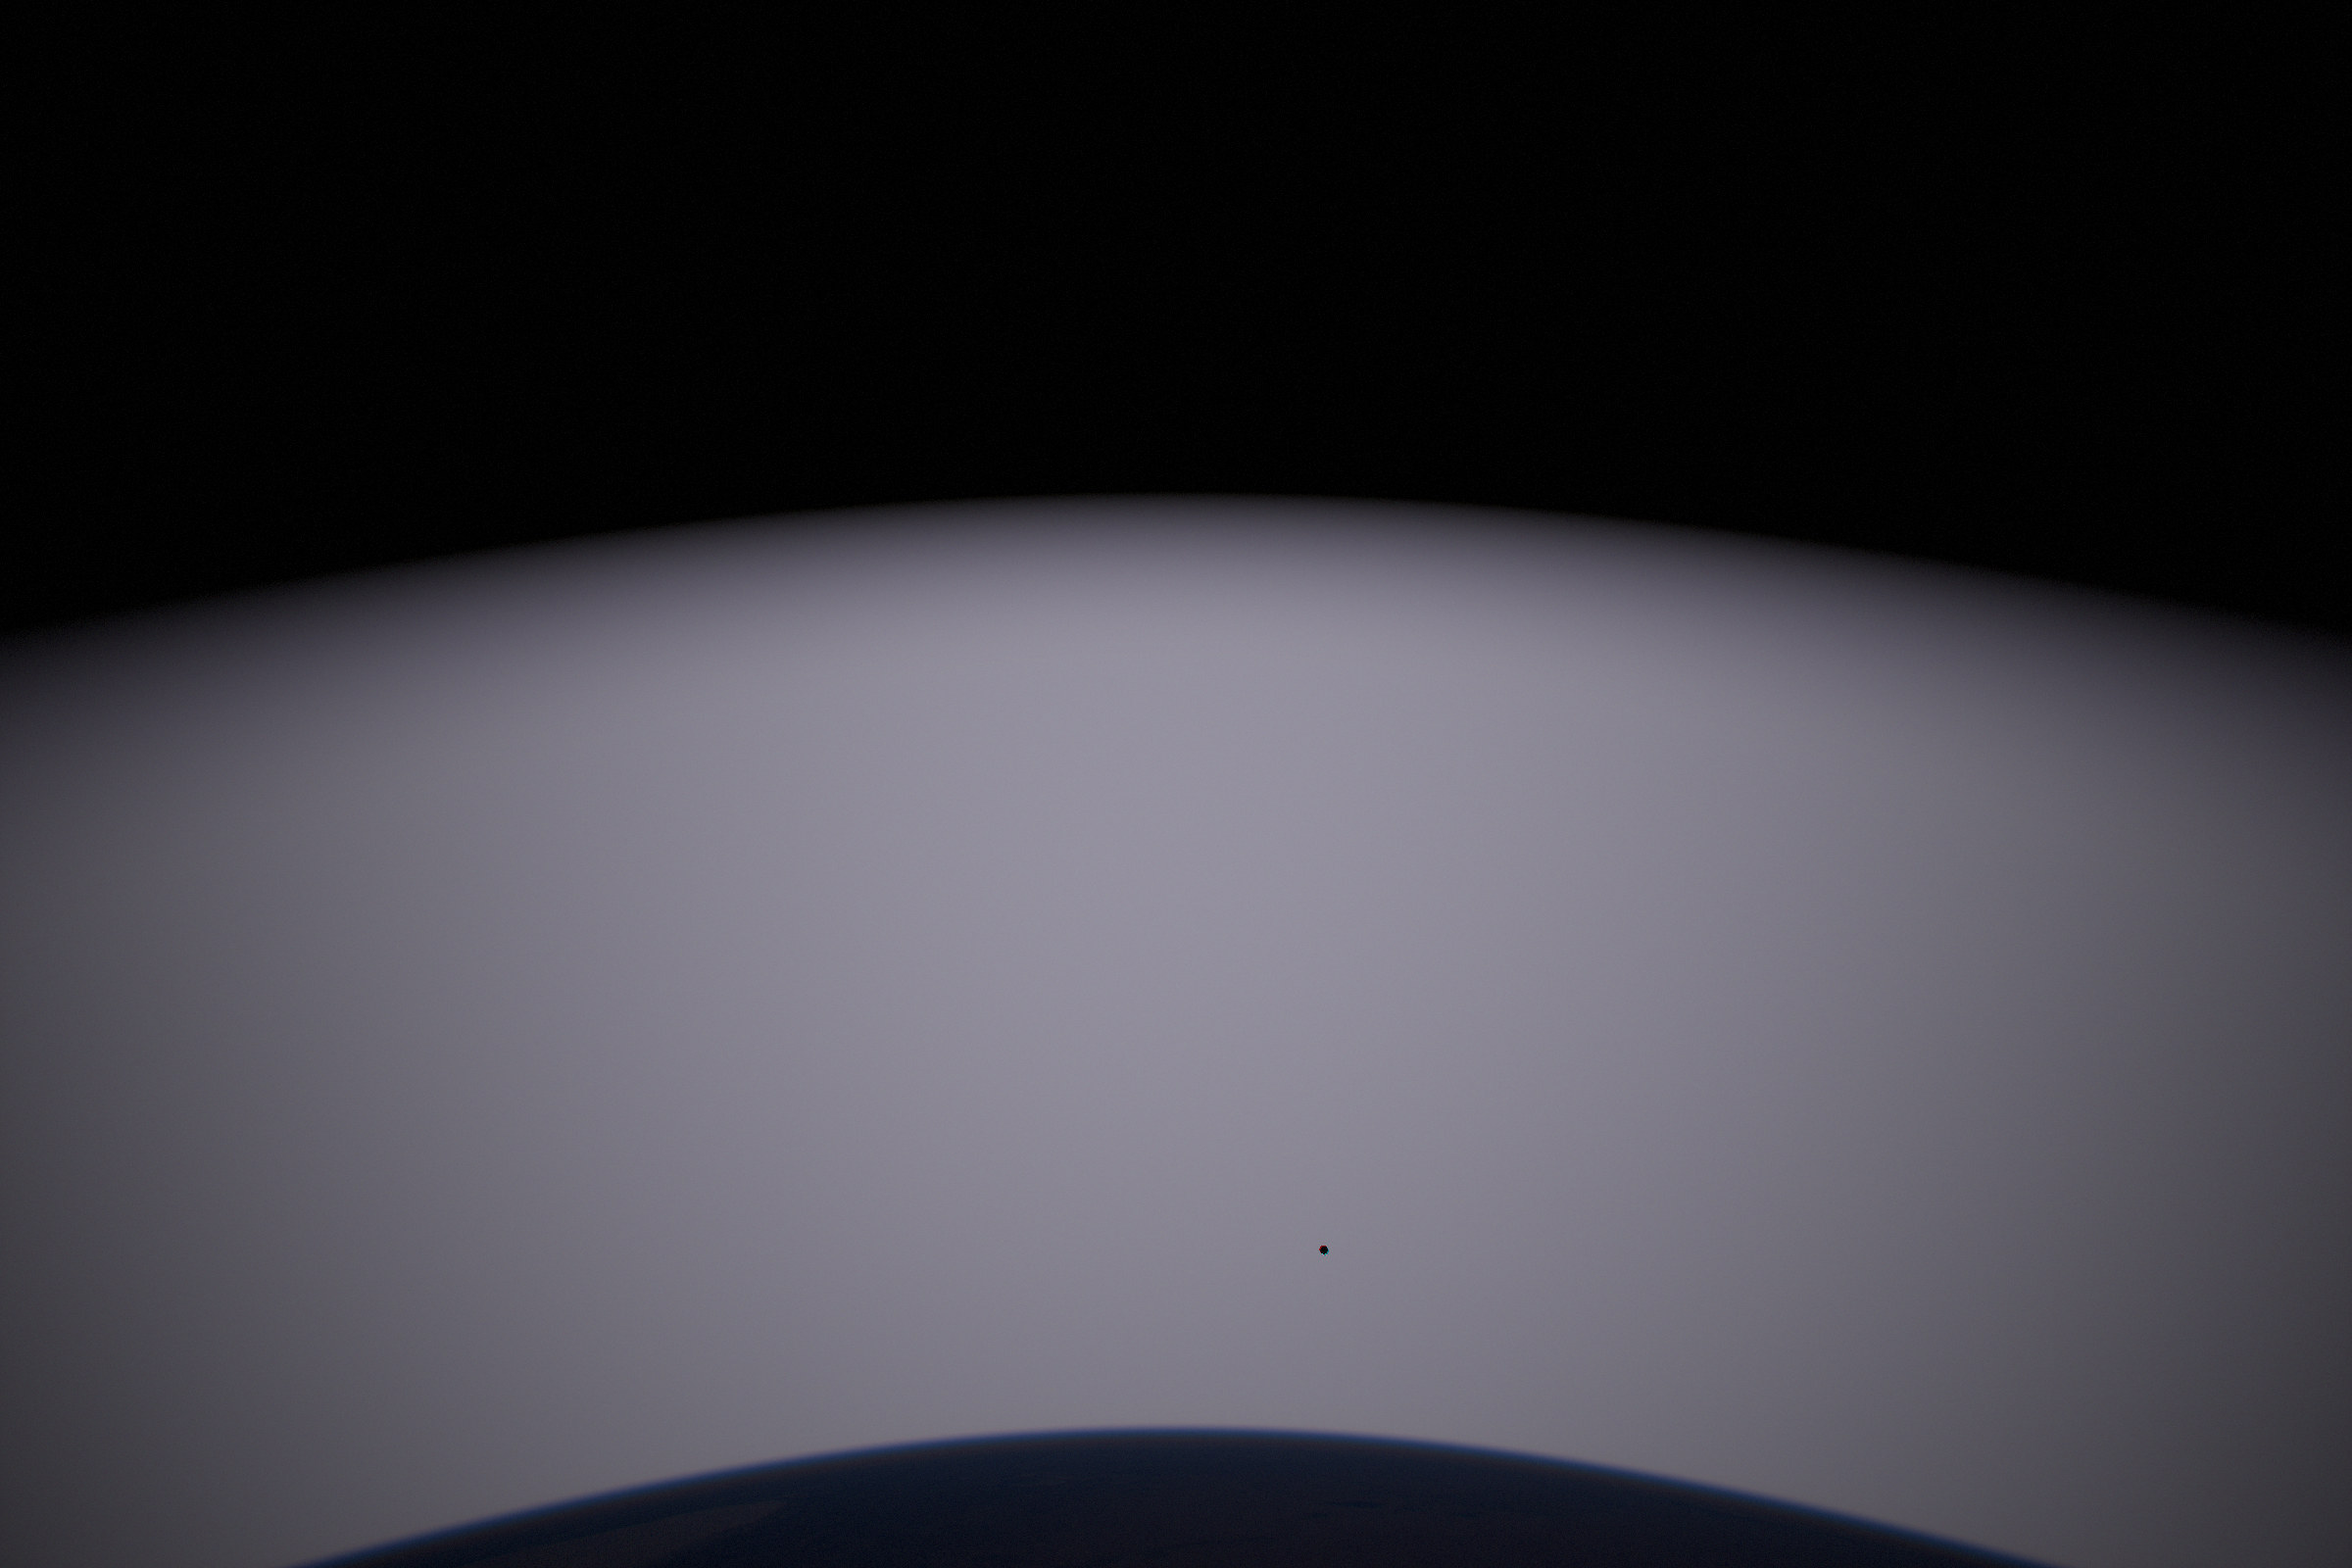
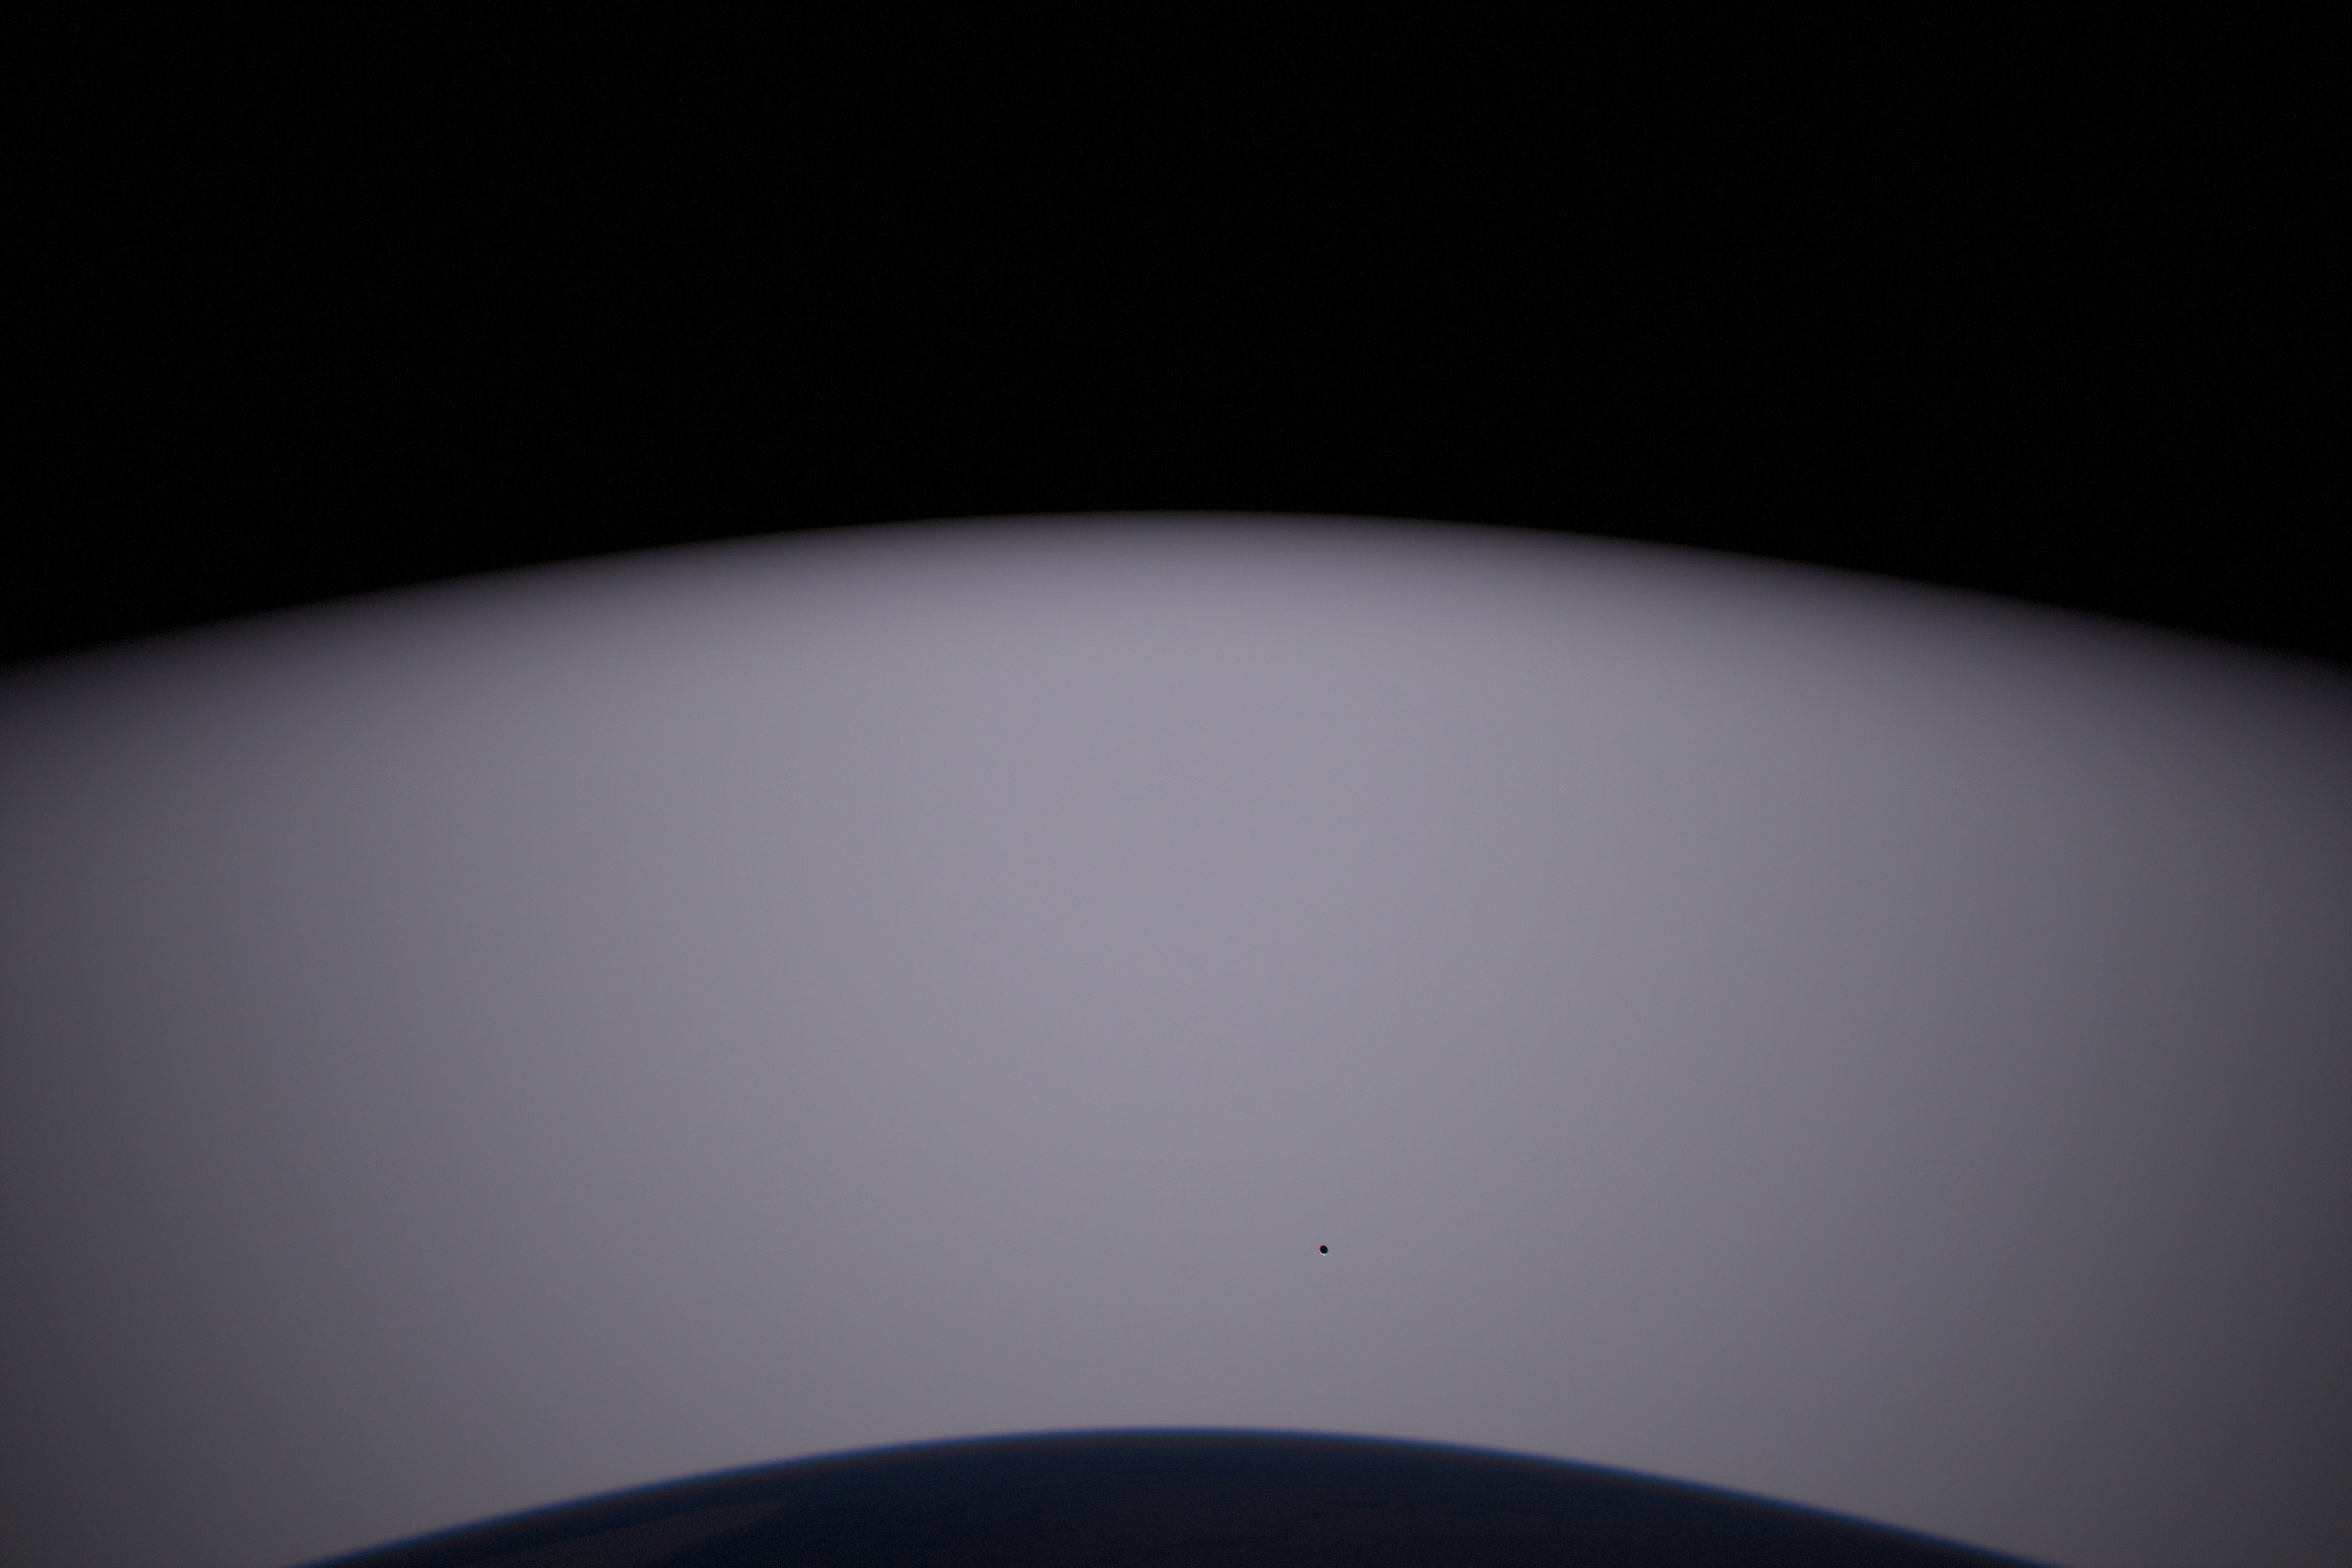
Low-orbit frame at half with the Moon's crescent; its caption
Claude-Session: https://claude.ai/code/session_01SbDrhYF14UDXonL1ALY6on

diff --git a/index.html b/index.html
@@ -372,7 +372,7 @@ section.stage { border-top: 1px solid var(--rule); }
     </figure>
     <figure class="wide">
       <div class="plate"><img src="renders/stage-leo-0.5.jpg" alt="From orbit: a bright glowing disc over Earth" width="2400" height="1600" loading="lazy"></div>
-      <figcaption class="col"><b>From low Earth orbit.</b><span class="how"></span></figcaption>
+      <figcaption class="col"><b>From low Earth orbit.</b> Half caught, and the disc is as bright as it will ever be, 45 cd/m², the brightness of the sky at dusk. Its edge has softened: toward the limb a line of sight crosses less of the sphere, and the glow fades with it. Earth's night side below is faintly lit by it, and the Moon is a dark dot with a thin lit edge.<span class="how">Same place, moment and lens. Exposed for the disc, 4.7 stops less than at one per cent, and 11 stops less than at one part in ten thousand.</span></figcaption>
     </figure>
     <figure class="wide">
       <div class="pair">
